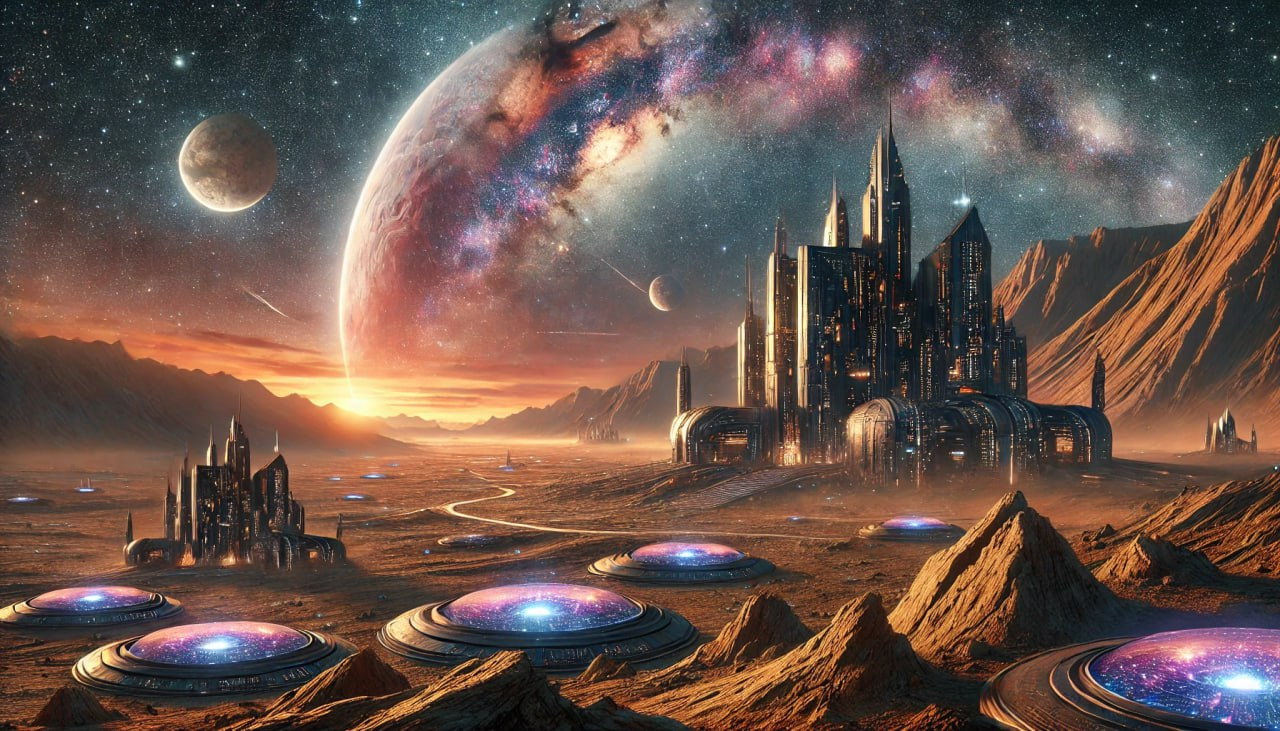
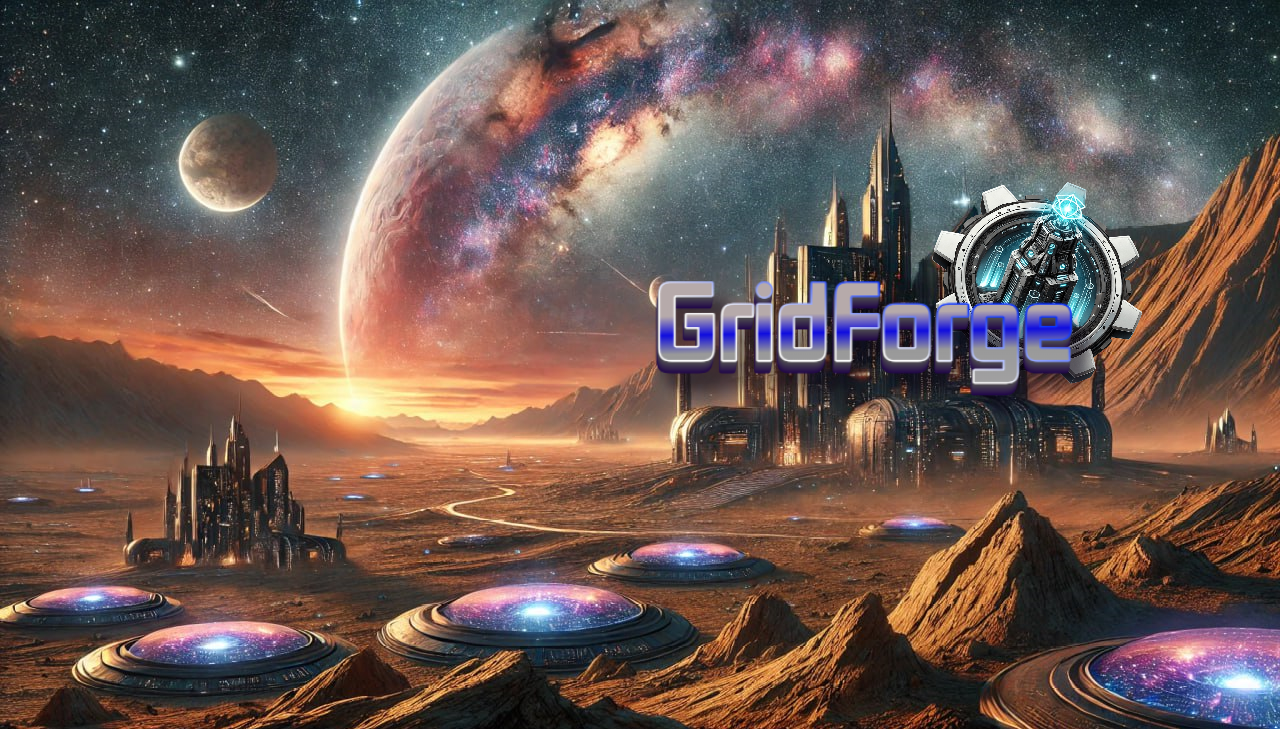
Изменил интерфейс главного окна

diff --git a/Windows/MenuWindow.py b/Windows/MenuWindow.py
@@ -12,7 +12,7 @@ from Windows.Window import Window
 
 class MenuWindow(Window):
     __background_sprite = pygame.sprite.Sprite(ALL_SPRITES)
-    __background_sprite.image = pygame.image.load(f"Windows/Windows_back/StartWindow.jpg")
+    __background_sprite.image = pygame.image.load(f"data/ex.png")
     __background_sprite.rect = __background_sprite.image.get_rect()
     __BUTTON_DICT: dict = {'Выйти': terminate}
     """
@@ -66,8 +66,12 @@ class MenuWindow(Window):
         block.add_widget(LevelPreview((0, 0, 220, 75), pygame.Color("black"), pygame.Color("gold")))
         block.add_widget(LevelPreview((0, 0, 220, 75), pygame.Color("black"), pygame.Color("gold")))
 
-        sprite = Icon((DISPLAY_SIZE[0] - 445, DISPLAY_SIZE[1] - 255),
+        sprite = Icon((DISPLAY_SIZE[0] - 445, DISPLAY_SIZE[1] - 255), -1,
                       "achievement_icon.png", (60, 60), self.sprites)
+        sprite = Icon((DISPLAY_SIZE[0] - 445, DISPLAY_SIZE[1] - 195), -1,
+                      "shop_icon.png", (60, 60), self.sprites)
+        sprite = Icon((DISPLAY_SIZE[0] - 445, DISPLAY_SIZE[1] - 140), -1,
+                      "support_authors_icon.png", (60, 60), self.sprites)
 
         # block.add_widget(Widget((0, 0, 50, 50), pygame.Color('red')))
         # block.add_widget(Widget((60, 0, 50, 50), pygame.Color('blue')))

diff --git a/Widgets/Icon.py b/Widgets/Icon.py
@@ -5,10 +5,10 @@ from Widgets.widget import Widget
 
 
 class Icon(pygame.sprite.Sprite, Widget):
-    def __init__(self, position: tuple[int, int], image_name: str, size, *group):
+    def __init__(self, position: tuple[int, int], colorkey, image_name: str, size, *group):
         super().__init__(*group)
 
-        self.image = load_image(image_name)
+        self.image = load_image(image_name, colorkey)
         self.image = pygame.transform.scale(self.image, size)
         self.rect = self.image.get_rect()
         self.rect.x = position[0]

diff --git a/Statistic.py b/Statistic.py
@@ -41,6 +41,12 @@ class Statistic:
     def get_count_of_enemies(self):
         return self.connection.cursor().execute("SELECT killed_enemies FROM user_statistic").fetchone()[0]
 
+    def add_money(self, money):
+        self.connection.cursor().execute("UPDATE user_statistic SET money = money + {}", (money,))
+
+    def get_count_of_money(self):
+        return self.connection.cursor().execute("SELECT money FROM user_statistic").fetchone()[0]
+
     def close(self):
         self.connection.close()
 
